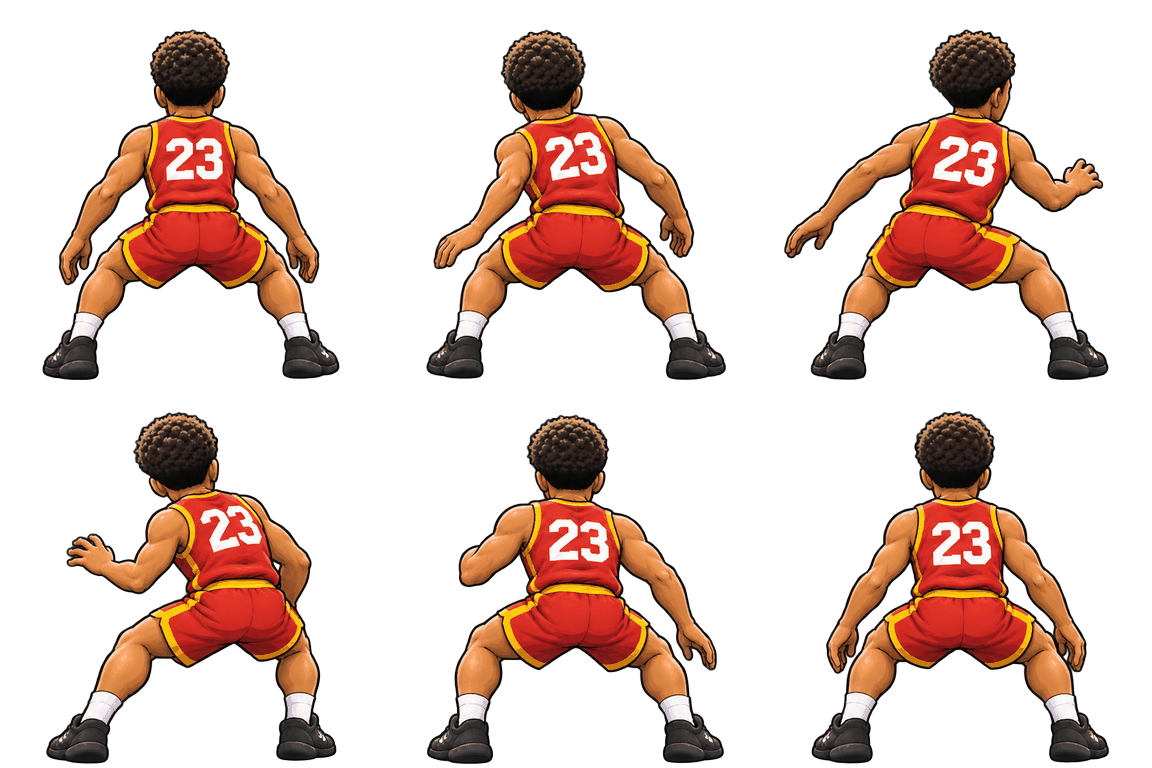
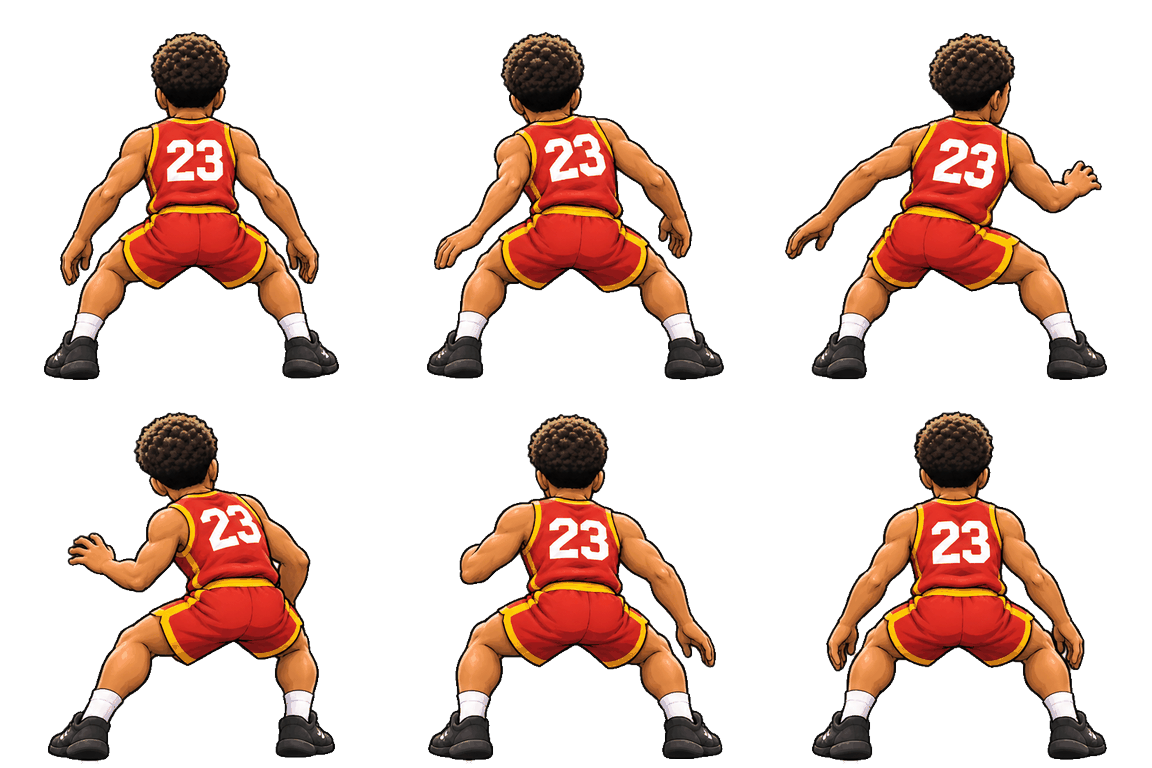
左右ドリブルの絵を追加、ボールを手の位置とタイミングに合わせる、コートの絵を先読み、切り抜きの白残りを修正
Claude-Session: https://claude.ai/code/session_01BV7VTayadibtSK45JjDBAS

diff --git a/js/env.js b/js/env.js
@@ -77,6 +77,11 @@ function pickSkyPhoto(themeName, stageSeed) {
 }
 // コートの中の ステージ：コートの絵を そのまま 背景にして、あまり スクロールしない
 const COURT_VP = { village: [0.28, 0.315, 0.332, 0.345, 0.285, 0.311], sunset: [0.385, 0.345, 0.345, 0.39], night: [0.335, 0.345], snow: [0.34, 0.345], castle: [0.465, 0.385, 0.389, 0.415, 0.325], gym: [0.465, 0.395, 0.355, 0.373] };
+const courtN = (stageId) => { const ss = String(stageId || ''); let h2 = 7; for (let i = 0; i < ss.length; i++) h2 = (h2 * 31 + ss.charCodeAt(i)) >>> 0; const mm = /-(\d+)$/.exec(ss); return mm ? (+mm[1] - 1) : (h2 % 9973) % 997; };
+const IMGS = {}; const courtImg = (theme, idx) => { const src = `img/court/${theme}${idx + 1}.jpg`; if (!IMGS[src]) { const im = new Image(); im.src = src; IMGS[src] = im; } return IMGS[src]; };
+// ステージの しょうかい画面の うちに、コートの絵と プレイヤーの絵を 先に 読みこんでおく
+export function preloadStage(theme, stageId) { const v = COURT_VP[theme]; if (v) courtImg(theme, courtN(stageId) % v.length); for (const k of PLAYER_SHEETS) { const src = `img/player/${k}.png`; if (!IMGS[src]) { const im = new Image(); im.src = src; IMGS[src] = im; } } }
+export const PLAYER_SHEETS = ['hpower', 'hlegs', 'hbehind', 'hside', 'hsideL', 'height', 'hwrap', 'hhead', 'hknees', 'hroll', 'hspin', 'hjstop', 'hdribL', 'hdribR'];
 function buildCourtEnv(scene, o, th, D, n) {
   const vps = COURT_VP[o.themeName]; const idx = n % vps.length; const vp = vps[idx]; const HW = o.HW, LW = o.LW; const SCREEN_VP = 0.42; // 画面の中で 地平線が くる高さ
   let aspect = 16 / 9, img = null, bgT = null;
@@ -90,7 +95,7 @@ function buildCourtEnv(scene, o, th, D, n) {
     if (tn === 'night' && idx > 0) { cx.globalCompositeOperation = 'multiply'; cx.fillStyle = '#7f86d8'; cx.fillRect(0, 0, cw, ch); cx.globalCompositeOperation = 'source-over'; cx.fillStyle = '#fff8d8'; cx.beginPath(); cx.arc(cw * 0.82, ch * 0.13, ch * 0.05, 0, TAU); cx.fill(); }
     const px = cx.getImageData(cw / 2 - 40, Math.round(SCREEN_VP * ch) + 6, 80, 8).data; let r = 0, g = 0, b = 0; for (let i = 0; i < px.length; i += 4) { r += px[i]; g += px[i + 1]; b += px[i + 2]; } const k = px.length / 4; if (scene.fog) scene.fog.color.setRGB(r / k / 255, g / k / 255, b / k / 255, THREE.SRGBColorSpace);
     if (bgT) bgT.dispose(); bgT = new THREE.CanvasTexture(cv); bgT.colorSpace = THREE.SRGBColorSpace; scene.background = bgT; };
-  img = null; const im = new Image(); im.onload = () => { img = im; draw(); }; im.onerror = () => {}; im.src = `img/court/${o.themeName}${idx + 1}.jpg`;
+  img = null; scene.background = new THREE.Color(th.indoor || th.glow > 0.4 ? '#141a30' : '#5a6f8a'); const im = courtImg(o.themeName, idx); if (im.complete && im.naturalWidth) { img = im; draw(); } else im.addEventListener('load', () => { img = im; draw(); });
   scene.fog.near = 70; scene.fog.far = 135;
   scene.add(new THREE.AmbientLight(0xffffff, th.glow > 0.4 ? 1.5 : 0.35)); // 暗いコートでも 人が はっきり 見えるように
   // 雪 と ひのこ
@@ -151,7 +156,7 @@ export function buildEnv(scene, o) {
   const court = o.court !== false && COURT_VP[o.themeName];
   if (!th.indoor && !court) { const seedStr = String(o.stageId || o.themeName || ''); let hs = 0; for (let i = 0; i < seedStr.length; i++) hs = (hs * 131 + seedStr.charCodeAt(i)) >>> 0; const photo = pickSkyPhoto(o.themeName, hs); if (photo) applySkyPhoto(scene, th, photo); }
   let bgN = 0;
-  if (court) { const ss = String(o.stageId || ''); let h2 = 7; for (let i = 0; i < ss.length; i++) h2 = (h2 * 31 + ss.charCodeAt(i)) >>> 0; const mm = /-(\d+)$/.exec(ss); bgN = mm ? (+mm[1] - 1) : (h2 % 9973) % 997; }
+  if (court) bgN = courtN(o.stageId);
   else { const ss = String(o.stageId || o.themeName || '') + 'bg'; let h2 = 7; for (let i = 0; i < ss.length; i++) h2 = (h2 * 31 + ss.charCodeAt(i)) >>> 0; { const mm = /-(\d+)$/.exec(String(o.stageId || '')); bgN = mm ? (+mm[1] - 1) : (h2 % 9973) % 997; } addBackdrop(scene, th, o.themeName, bgN, D); }
   const sty = (BG_STYLE[o.themeName] || [])[bgN % (BG_COUNT[o.themeName] || 1)] || null; const roadKind = sty ? sty[0] : th.road; const kit = sty ? sty[1] : null;
   scene.add(new THREE.HemisphereLight(C(th.hemi[0]), C(th.hemi[1]), th.hemi[2]));

diff --git a/js/scene.js b/js/scene.js
@@ -2,7 +2,7 @@
 import * as THREE from '../vendor/three.module.min.js';
 import { SKILLS } from './data.js';
 import { makeHuman } from './character.js';
-import { buildEnv } from './env.js';
+import { buildEnv, PLAYER_SHEETS } from './env.js';
 import { EffectComposer } from '../vendor/addons/postprocessing/EffectComposer.js';
 import { RenderPass } from '../vendor/addons/postprocessing/RenderPass.js';
 import { UnrealBloomPass } from '../vendor/addons/postprocessing/UnrealBloomPass.js';
@@ -41,7 +41,7 @@ export function createScene(canvas, o) {
   const human = o.human ? makeHuman(o.human, suit, { num: 7, bigHead: 1.65 }) : null;
   // 敵も バスケットマン：ディフェンス 2人、おいかけてくる 1人、ボス 1人（べつの チームの ユニフォーム）
   // プレイヤーを 絵（スプライト）で 出す：右手ドリブル と パワーポジション
-  let pspr = null, psMir = false; const psT = {}; const PSN = ['hpower', 'hlegs', 'hbehind', 'hside', 'hsideL', 'height', 'hwrap', 'hhead', 'hknees', 'hroll', 'hspin', 'hjstop'];
+  let pspr = null, psMir = false; const psT = {}; const PSN = PLAYER_SHEETS;
   if (human && o.sprite !== false) { let n = 0; const ld = new THREE.TextureLoader(); for (const k of PSN) { const t = ld.load(`img/player/${k}.png`, () => { if (++n === PSN.length) { const m = new THREE.SpriteMaterial({ map: psT.hpower, transparent: true, alphaTest: 0.05 }); pspr = new THREE.Sprite(m); pspr.center.set(0.5, 0.01); pspr.scale.set(1.65, 1.65, 1); scene.add(pspr); human.setMainVisible(false); } }); t.colorSpace = THREE.SRGBColorSpace; t.wrapS = THREE.RepeatWrapping; psT[k] = t; } }
   const faceAtlas = o.human ? new THREE.TextureLoader().load('img/faces.png') : null; if (faceAtlas) faceAtlas.colorSpace = THREE.SRGBColorSpace;
   const mkFoe = (c, num, trim) => { const h = makeHuman(o.human, c, { num, trim, guide: false, skin: '#c98f66', shoe: '#22222a' }); h.root.visible = false; scene.add(h.root); return h; };
@@ -197,7 +197,7 @@ export function createScene(canvas, o) {
     const noBall = cue && cue.ballMode === 'none';
     P.position.set(laneX, 0, 0);
     let bp = null; if (human) bp = human.animate({ dt, beat, cue, sk, vx });
-    const bx = laneX + (bp ? bp.x : 0.4), by = bp ? bp.y : 0.8, bz = bp ? bp.z : -0.3;
+    let bx = laneX + (bp ? bp.x : 0.4), by = bp ? bp.y : 0.8, bz = bp ? bp.z : -0.3;
     if (pspr) { // 絵の コマえらび（ワザごとの 6コマ シート）
       const hold = sk.hand === 'hold' || !cue; const cb = cue ? Math.max(0, beat - cue.b0) : 0; let T = psT.hpower, f = 0, mir = false, psY = 0;
       const rx = bp ? bp.x : 0.4; if (rx < -0.08) psMir = false; else if (rx > 0.08) psMir = true;
@@ -210,7 +210,7 @@ export function createScene(canvas, o) {
       else if (hold) f = Math.floor(Math.max(0, beat) / 2) % 2 ? 5 : 0;
       else if (sk.behind || sk.combo === 'behind') { T = psT.hbehind; f = seq(1); }
       else if (sk.legs || sk.combo === 'legs') { T = psT.hlegs; f = seq(1); }
-      else { T = psT.hlegs; const t = (by - 0.13) / 0.6; f = t > 0.5 ? 3 : 2; } // ふつうの ドリブルは まだ 絵が ないので だいよう
+      else { const left = rx < 0; T = left ? psT.hdribL : psT.hdribR; const t = (by - 0.13) / 0.6; f = t > 0.6 ? 0 : t > 0.28 ? 1 : 2; bx = laneX + (left ? -0.5 : 0.5); } // ボールの 高さに 手の コマを 合わせ、ボールは 絵の 手の 真下に
       if (pspr.material.map !== T) { pspr.material.map = T; pspr.material.needsUpdate = true; }
       T.repeat.set(mir ? -1 / 3 : 1 / 3, 0.5); T.offset.set(((f % 3) + (mir ? 1 : 0)) / 3, f < 3 ? 0.5 : 0); pspr.position.set(laneX, psY, 0.02); }
     shadow.position.set(laneX, 0.012, 0); footGlow.position.set(laneX, 0.06, 0.1);

diff --git a/js/main.js b/js/main.js
@@ -2,6 +2,7 @@
 import { SKILLS, SKILL_IDS, RANKS, TIERS, tierOf, rankSkills, poolFor, WORLDS, MISSIONS, STAGES, sl, FRIENDS, BOSS_FRIENDS, ALL_FRIENDS, BALLS, SUITS, CAPSULE_COST, AVATARS,
   S, save, avHTML, addPlayer, renamePlayer, player, totalStars, mastery, canTest, dayState, missionProgress, stamp, esc } from './data.js';
 import { runStage } from './run.js';
+import { preloadStage } from './env.js';
 
 const app = document.getElementById('app'); const nav = document.getElementById('nav'); const gameEl = document.getElementById('game');
 const gl = document.getElementById('gl'); const hud = document.getElementById('hud'); const overlay = document.getElementById('overlay'); const video = document.getElementById('pip');
@@ -60,6 +61,7 @@ function stages() {
     </section>`; }).join('') + `<section class="world" style="--a:#ffb86b;--b:#ff7a1a;--bg:#2a1608"><h2>スペシャル</h2><div class="sgrid">${STAGES.filter((x) => x.sp).map((x) => `<button class="stage" data-act="stage" data-id="${x.id}"><span class="s-i">${MISSIONS[x.mission].i}</span><b>${x.sp}</b><small>${MISSIONS[x.mission].n}</small><span class="s-st">${[1, 2, 3].map((n) => `<i class="${n <= (p.stars[x.id] || 0) ? 'on' : ''}">★</i>`).join('')}</span></button>`).join('')}</div><p class="hint">SP は ボールが 2つ いるよ。L1・L2・L3 は ワザを ステップで おぼえる ステージ。H1 は うごかずに ハンドリングだけ れんしゅう。</p></section>`, 'stages');
 }
 function stageIntro(id) {
+  { const st0 = STAGES.find((x) => x.id === id); if (st0) preloadStage(st0.world.theme, st0.id); }
   const s = STAGES.find((x) => x.id === id); const p = player(); const m = MISSIONS[s.mission]; const pool = poolFor(p.rank);
   const feat = pool.filter((k) => (m.w[k] || 0) > 1).slice(0, 6); const list = (m.pool && m.pool.length > 8 ? m.pool.slice(0, 8) : m.pool) || (m.plan ? [...new Set(m.plan.flat().map((x) => x[0]))].filter((k) => SKILLS[k].combo || k === m.learn) : feat.length ? feat : pool.slice(-6));
   show(`<div class="card intro" style="--a:${s.world.pal.a};--b:${s.world.pal.b}">
